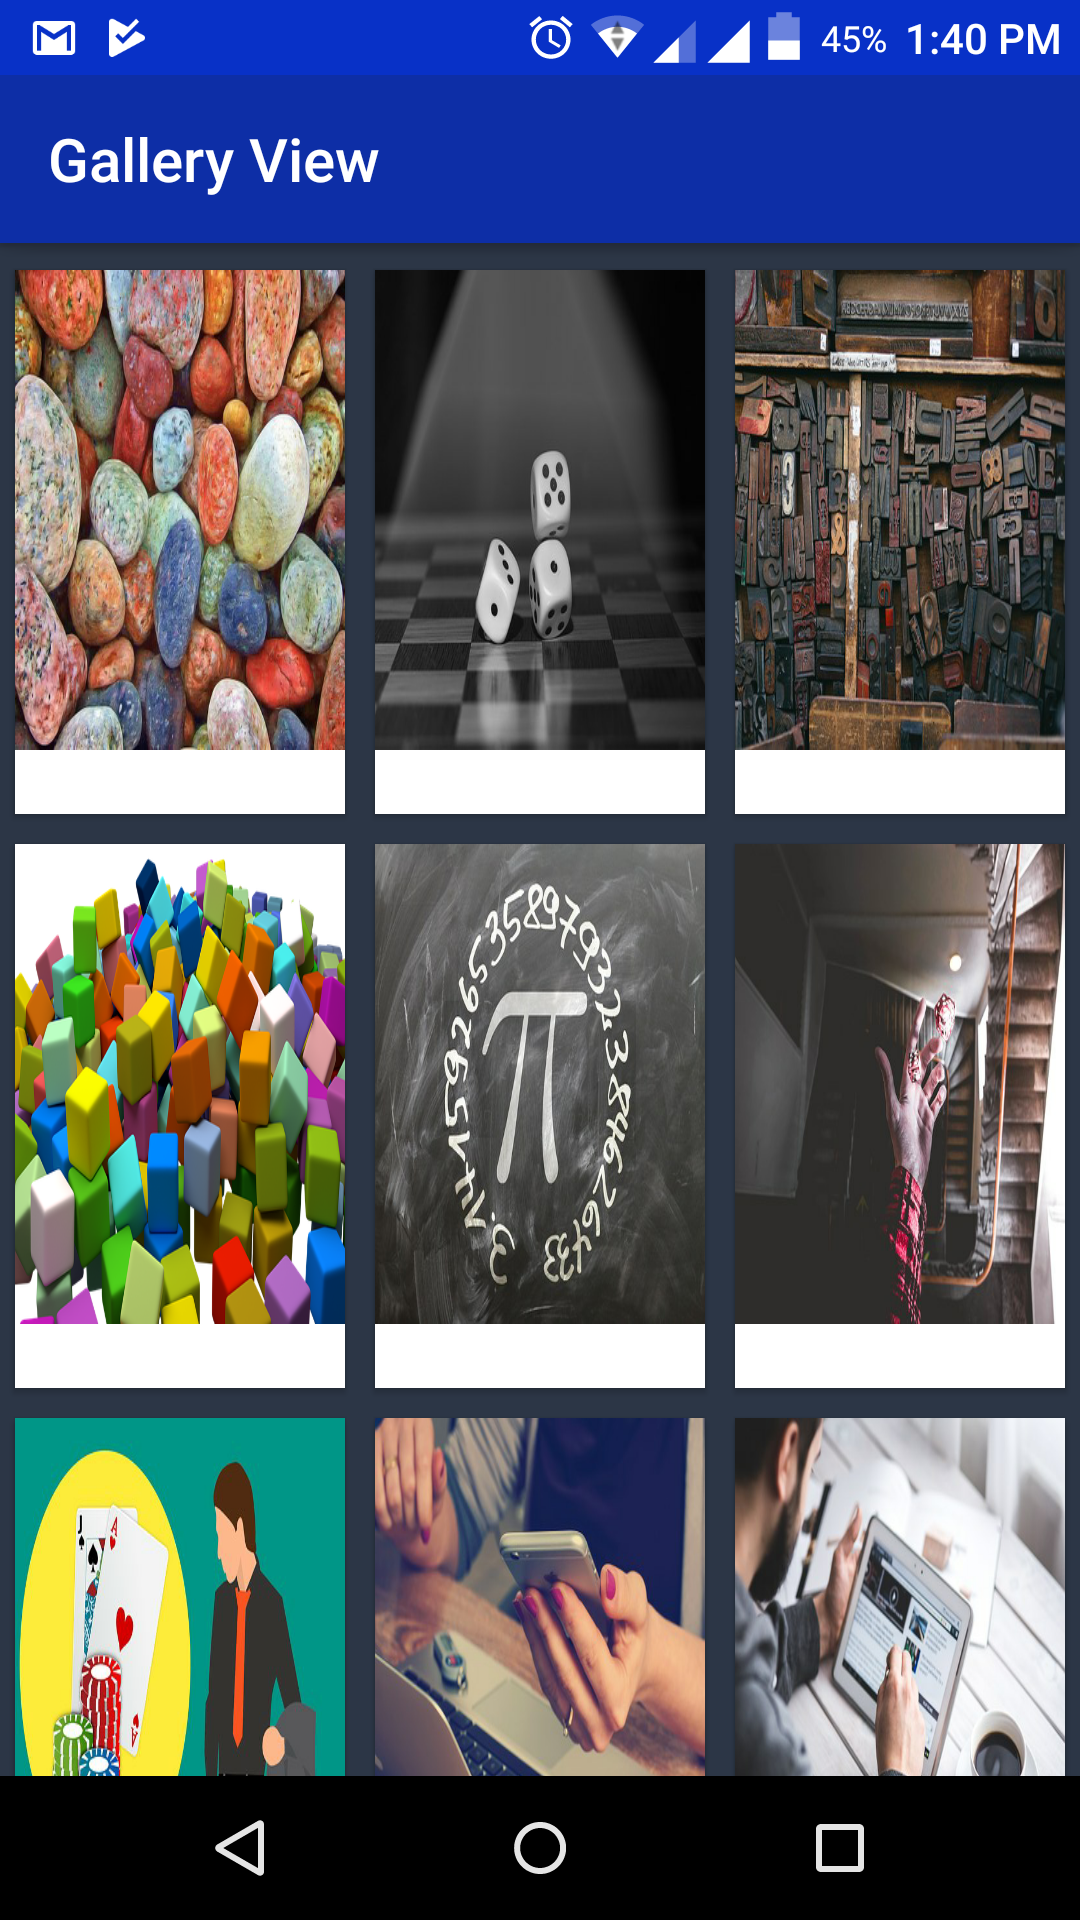
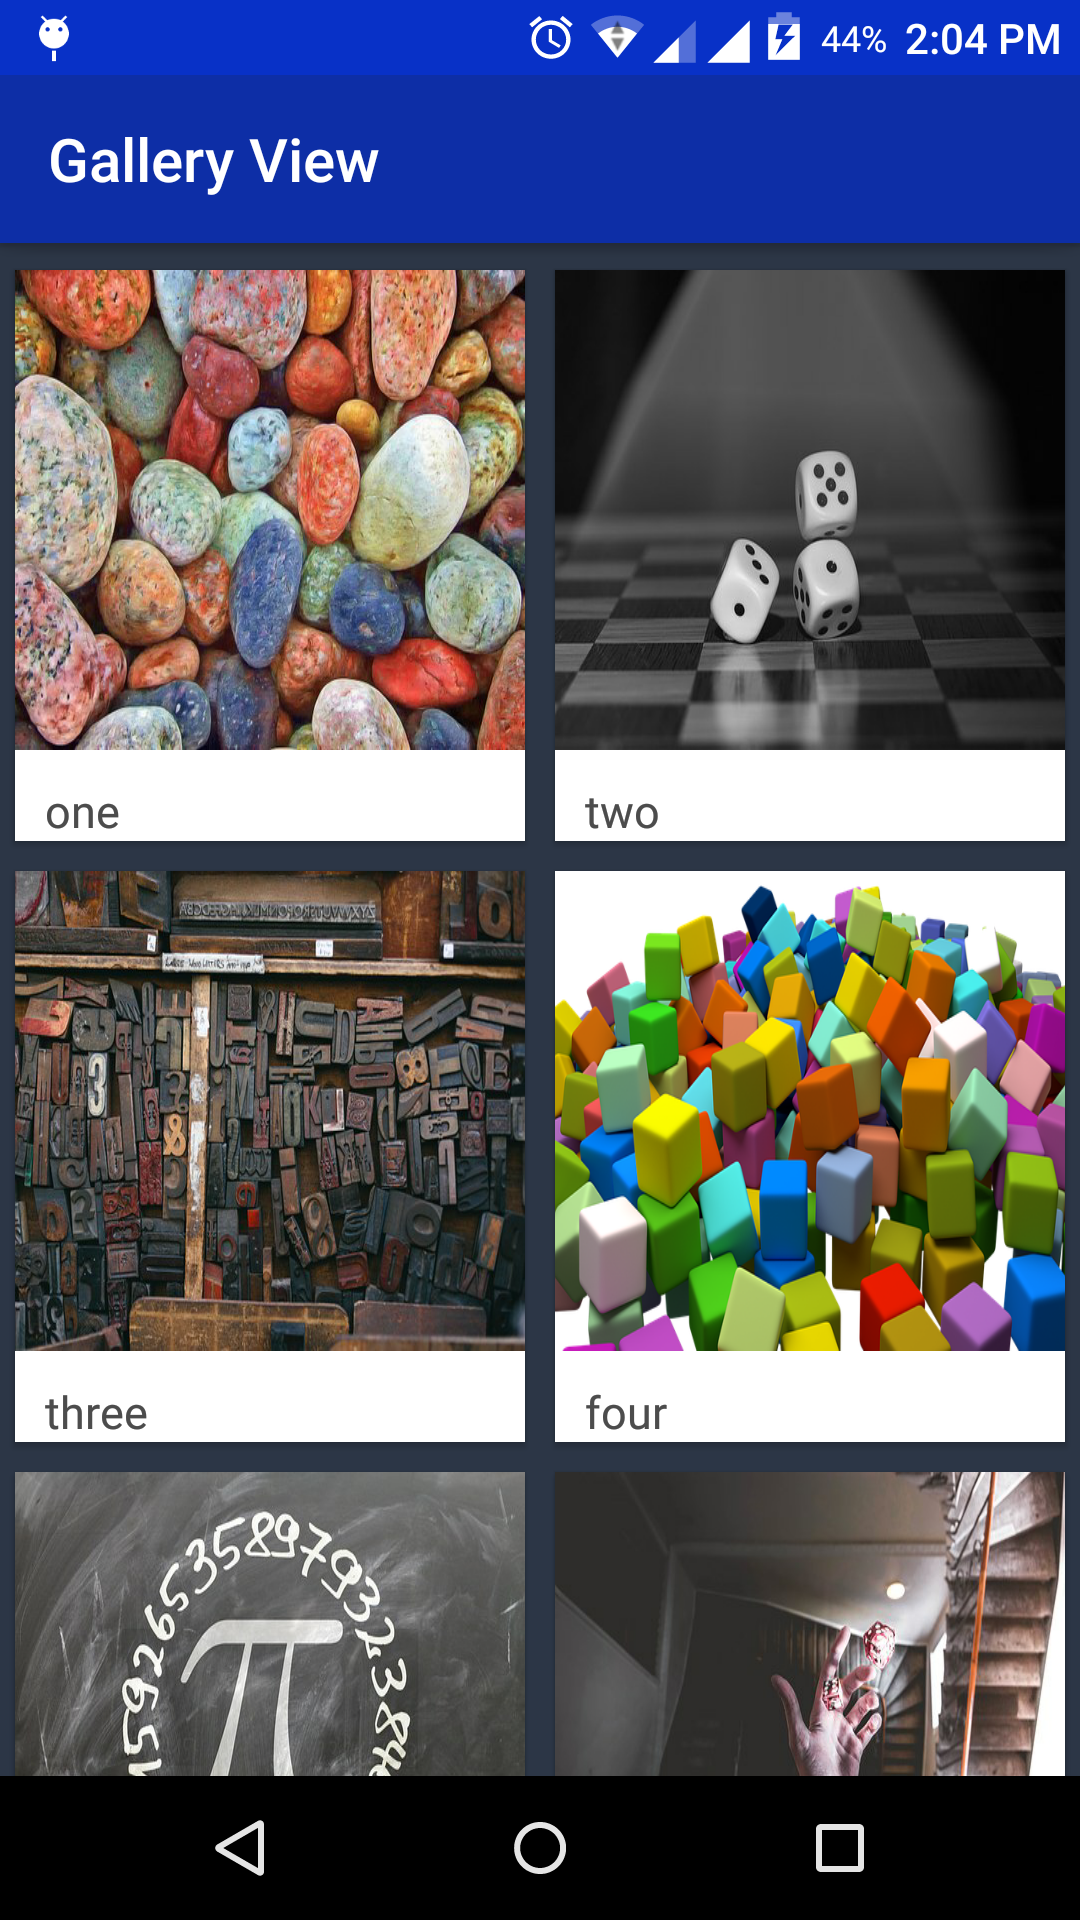
minor changes

diff --git a/app/src/main/java/np/com/sudishrestha/www/galleryview/galleryRecyclerAdapter.java b/app/src/main/java/np/com/sudishrestha/www/galleryview/galleryRecyclerAdapter.java
@@ -36,6 +36,7 @@ public class galleryRecyclerAdapter extends RecyclerView.Adapter<galleryRecycler
     public void onBindViewHolder(GroceryViewHolder holder, final int position) {
         holder.imageView.setImageResource(horizontalGrocderyList.get(position).getImage());
         holder.txtview.setText(horizontalGrocderyList.get(position).getName());
+        holder.txtview.setVisibility(View.VISIBLE);
 
         holder.imageView.setOnLongClickListener(new View.OnLongClickListener() {
             @Override

diff --git a/app/src/main/java/np/com/sudishrestha/www/galleryview/MainActivity.java b/app/src/main/java/np/com/sudishrestha/www/galleryview/MainActivity.java
@@ -28,7 +28,7 @@ public class MainActivity extends AppCompatActivity {
 
         mRecycleView = findViewById(R.id.idRecyclerViewHorizontalList2);
         recycleAdapter = new galleryRecyclerAdapter(galleryList, getApplicationContext(), true);
-        mRecycleView.setLayoutManager(new GridLayoutManager(this, 3));
+        mRecycleView.setLayoutManager(new GridLayoutManager(this, 2));
         mRecycleView.setAdapter(recycleAdapter);
         populategroceryList();
     }
